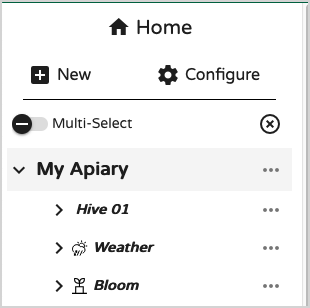
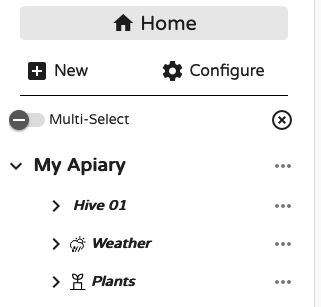
replaced old screen captures

diff --git a/docs/en/50_mybroodminder_v5g_plants.md b/docs/en/50_mybroodminder_v5g_plants.md
@@ -20,12 +20,12 @@ Plants are now fully integrated into MyBroodMinder, and support for Bees App wil
 
 
 
-Each **apiary** can now be linked to an **unlimited number of plants**. Choose those that matter most for your bees, especially for nectar and pollen. We’ve built a database of over **500 species**, searchable by keyword. 
+Each **apiary** can now be linked to an **unlimited number of plants**. Choose those that matter most for your bees, especially for nectar and pollen. We’ve built a database of over **500 species**, searchable by keyword.  
 
 
-![plants](../assets/50_mybroodminder_v5.assets/plants/newplant.png)
+![plants](../assets/50_mybroodminder_v5.assets/plants/add_plant.png)
 
-![plants](../assets/50_mybroodminder_v5.assets/plants/search_plant.png)
+![plants](../assets/50_mybroodminder_v5.assets/plants/search_plant2.png)
 
 !!! tip 
     you can search your plants through their Scientific (latin), english, french or spanish name
